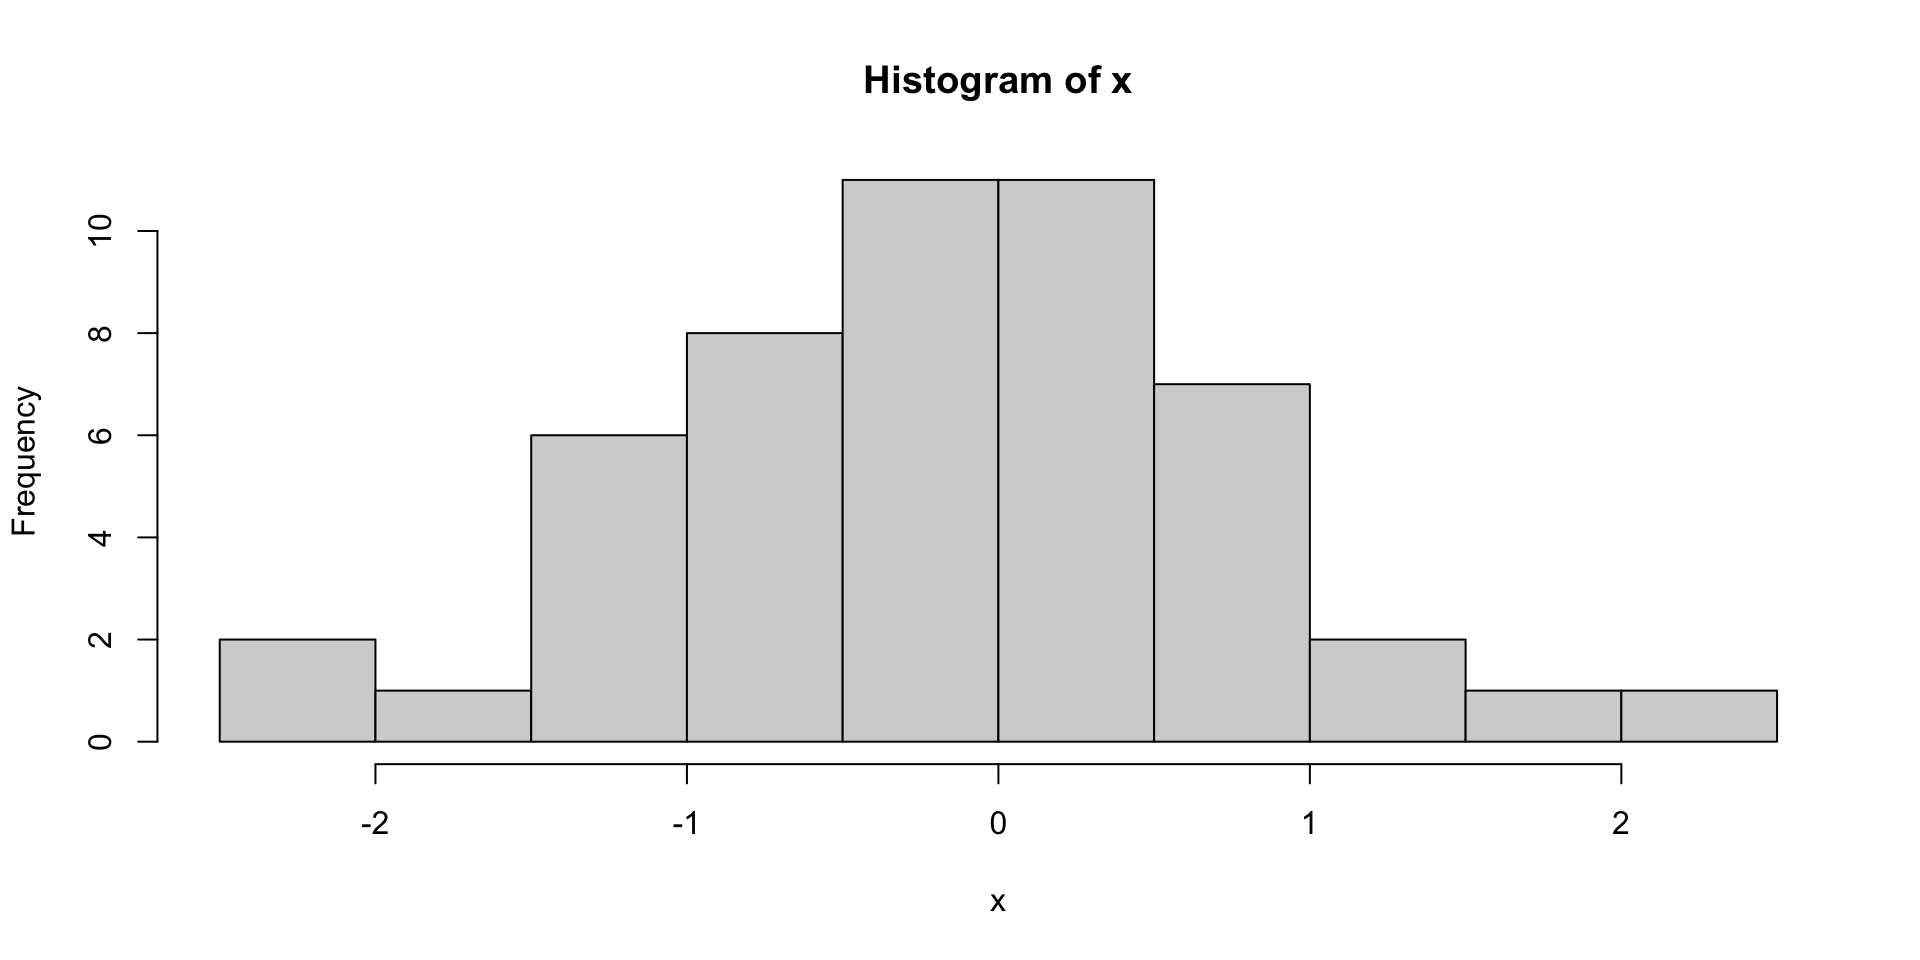
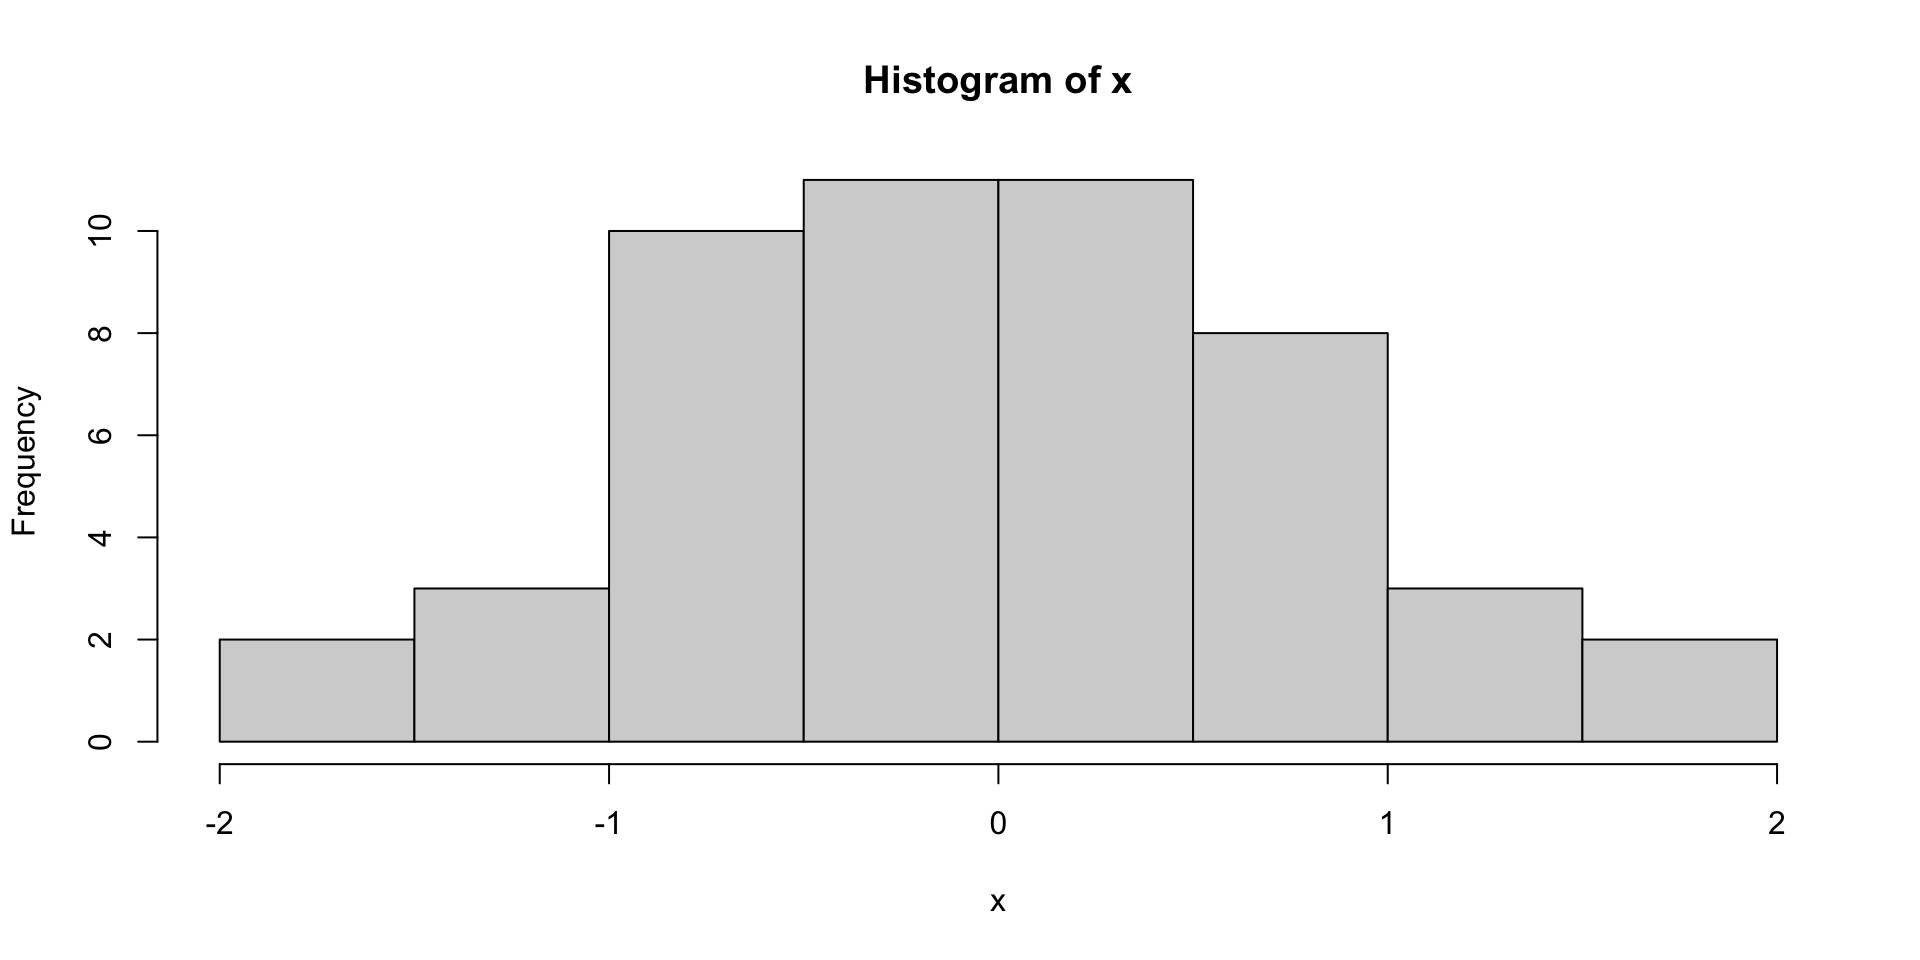
Fixed author

diff --git a/wids.html b/wids.html
@@ -10,7 +10,7 @@
 <link href="wids_files/libs/quarto-html/quarto-syntax-highlighting.css" rel="stylesheet" id="quarto-text-highlighting-styles"><meta charset="utf-8">
   <meta name="generator" content="quarto-1.4.545">
 
-  <meta name="author" content="Colton Gearhart &amp; Dr.&nbsp;Aihua Li">
+  <meta name="author" content="Colton Gearhart">
   <meta name="dcterms.date" content="2024-04-25">
   <title>Data Exploration and Visualization</title>
   <meta name="apple-mobile-web-app-capable" content="yes">
@@ -399,7 +399,7 @@
 <div class="quarto-title-authors">
 <div class="quarto-title-author">
 <div class="quarto-title-author-name">
-Colton Gearhart &amp; Dr.&nbsp;Aihua Li 
+Colton Gearhart 
 </div>
 </div>
 </div>
@@ -855,8 +855,8 @@ Colton Gearhart &amp; Dr.&nbsp;Aihua Li
 <span id="cb13-5"><a href=""></a><span class="fu">summary</span>(x)</span></code><button title="Copy to Clipboard" class="code-copy-button"><i class="bi"></i></button></pre></div>
 </div><div class="column">
 <div class="cell-output cell-output-stdout">
-<pre><code>   Min. 1st Qu.  Median    Mean 3rd Qu.    Max. 
--2.3032 -0.7668 -0.2047 -0.1717  0.3838  2.0171 </code></pre>
+<pre><code>    Min.  1st Qu.   Median     Mean  3rd Qu.     Max. 
+-1.74577 -0.60516 -0.02077 -0.04802  0.50252  1.83793 </code></pre>
 </div>
 </div>
 </div>
